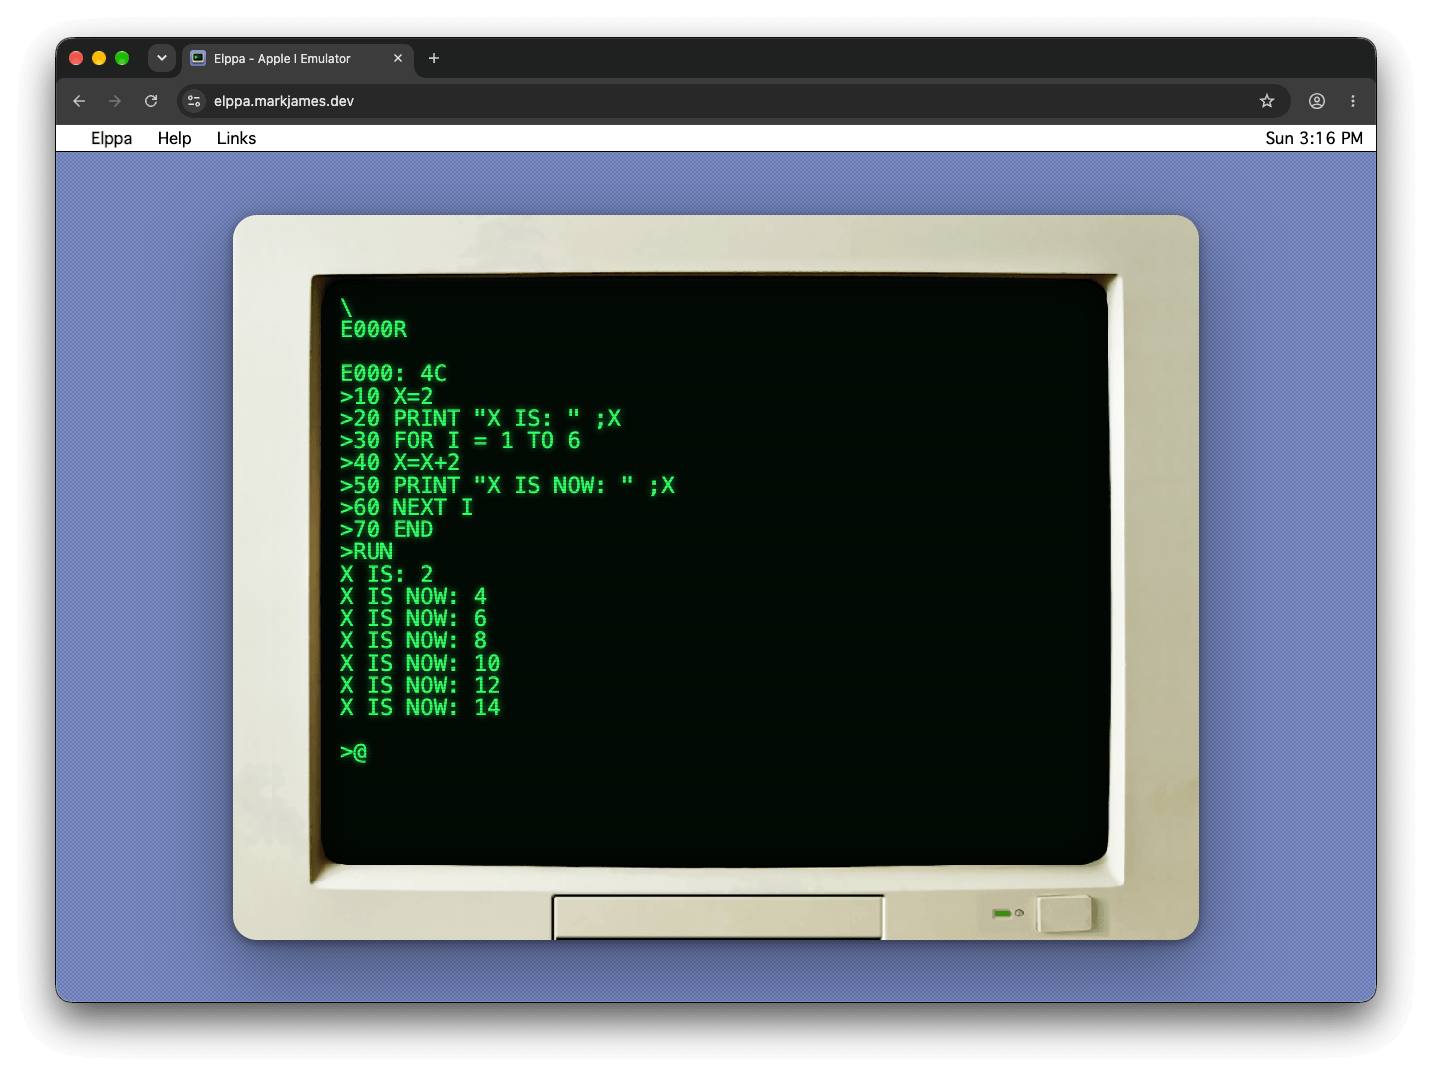
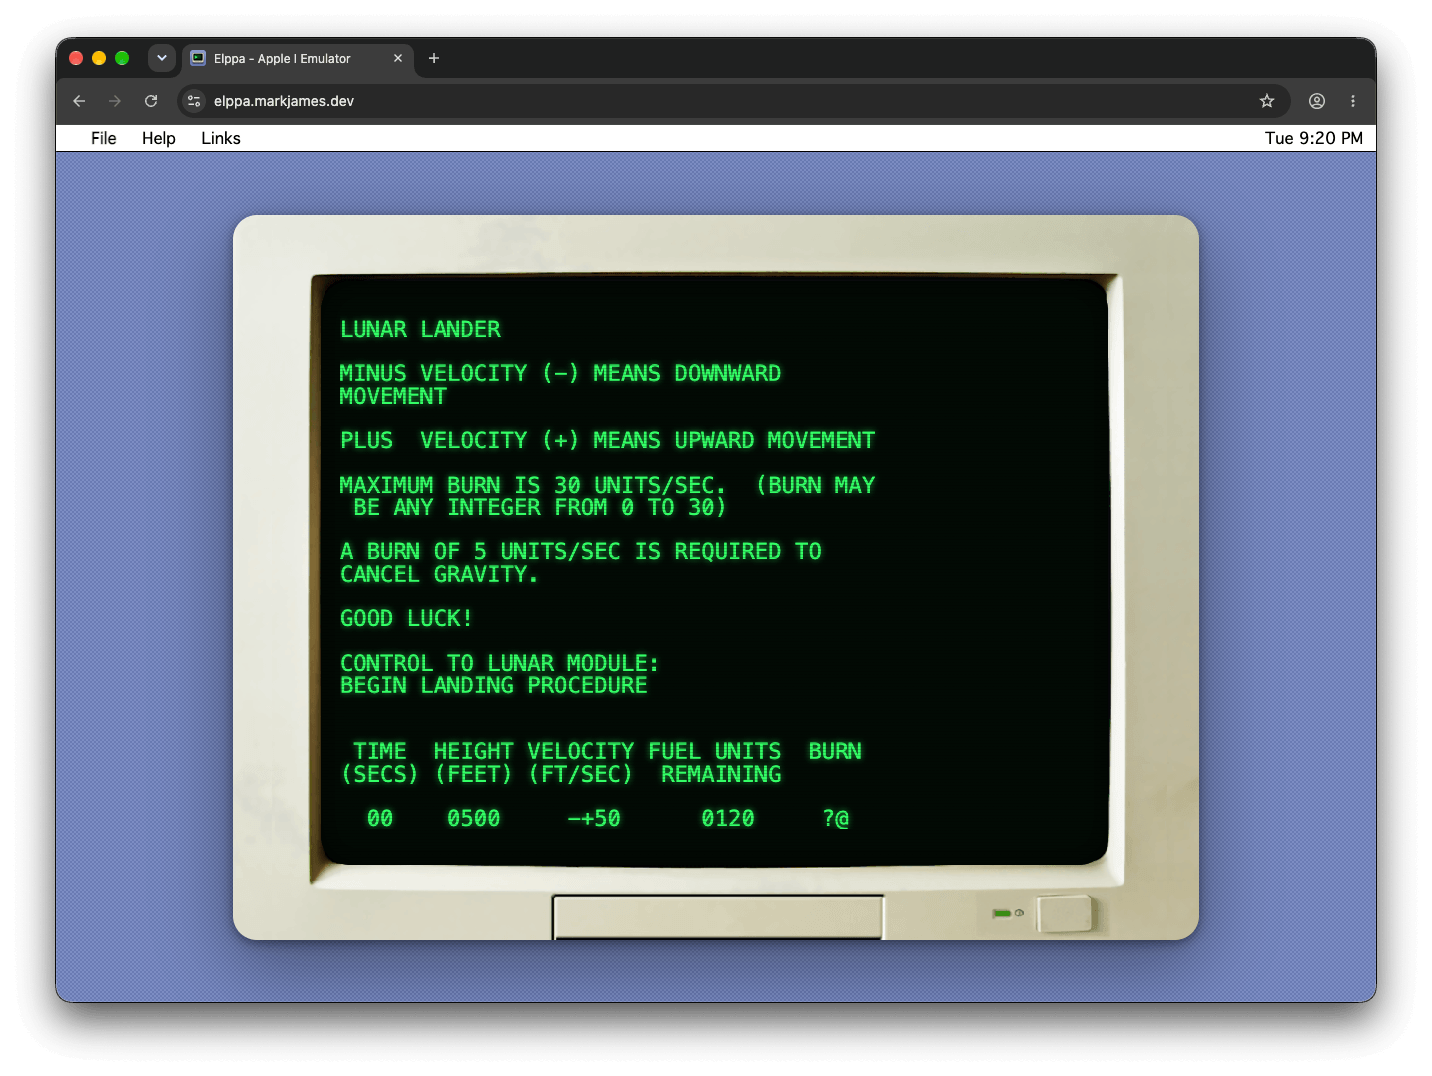
Update README.md screenshot to show lunar lander game running.

diff --git a/README.md b/README.md
@@ -4,7 +4,7 @@ An [Apple I](https://en.wikipedia.org/wiki/Apple_I) emulator that [runs in your 
 MOS 6502 CPU core.
 
 <p align="center">
-  <img src="./screenshots/web-interface.png" alt="Elppa running Integer BASIC" width="1466"><br><sub>Elppa running Integer BASIC in the browser via Blazor WebAssembly.</sub>
+  <img src="./screenshots/web-interface.png" alt="Elppa running Integer BASIC" width="1432"><br><sub>Elppa running Lunar Lander game in the browser via Blazor WASM.</sub>
 </p>
 
 ## Usage
